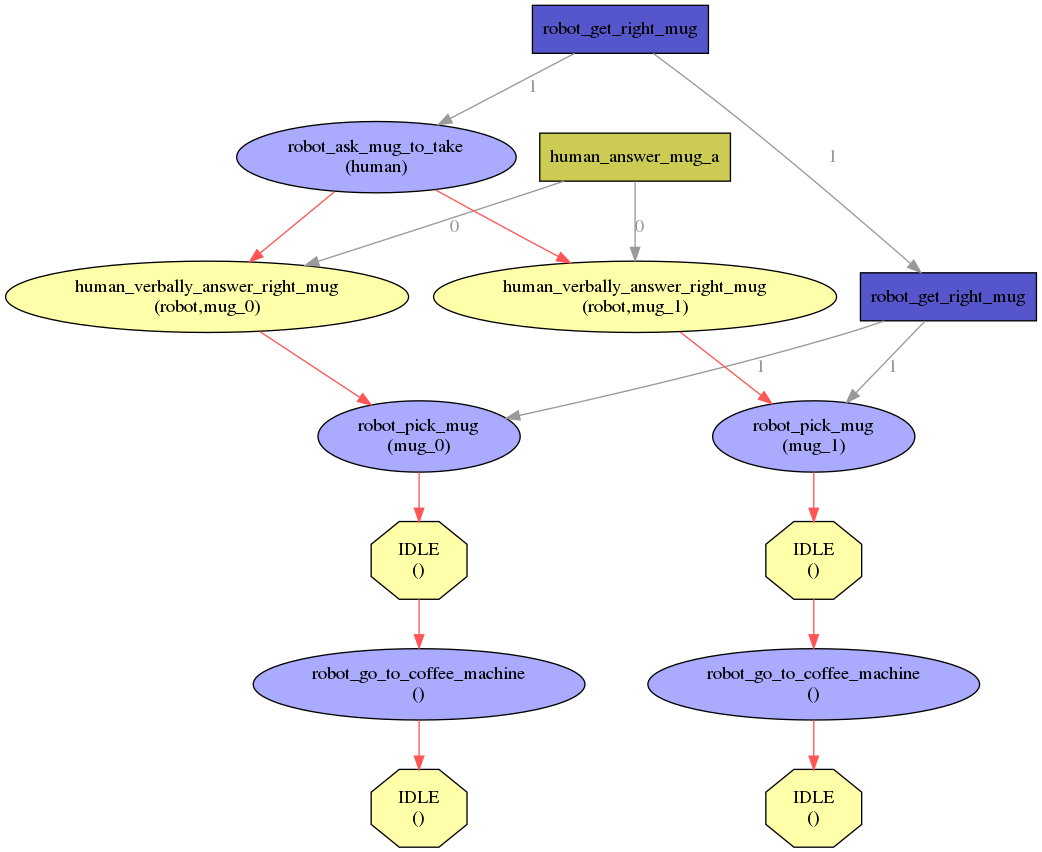
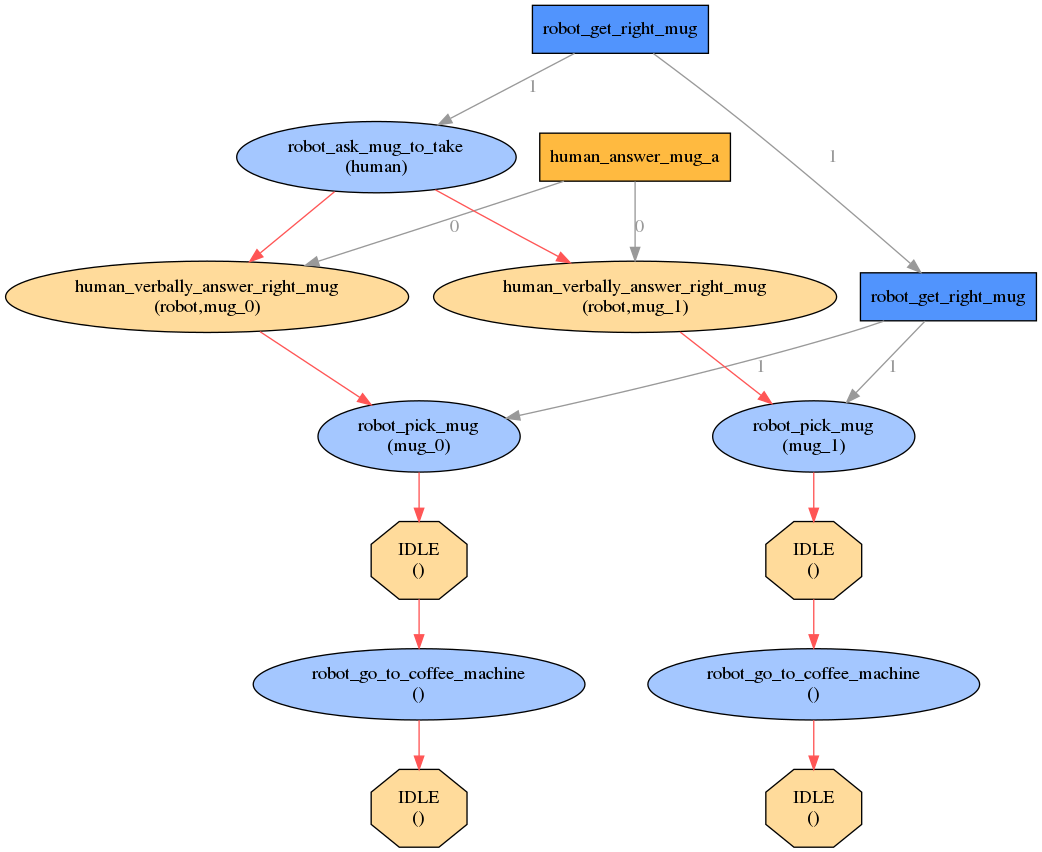
[Chapter4] New plan colors

diff --git a/Chapter4.tex b/Chapter4.tex
@@ -378,9 +378,9 @@ def pick_mug(self_agent, other_agent, mug):
 \subsection{Drawing the Plans}
 Thinking about the robot programmer is almost as important as considering the human partner the robot will interact with. Thus, in order to debug the designed \acrshortpl{htn}, we provide a way of visualizing the valid plans tree and the generated conditional plan. 
 
-An example of visualization of valid plans tree (before selecting a conditional plan) is presented in Figure~\ref{fig:chap4mugsss}. The ellipses correspond to primitive tasks while rectangles represent abstract ones. The octagons represent the default actions (\textit{IDLE} and \textit{WAIT}). The blue shapes are robot tasks and the yellow ones are the human ones. Finally, red arrows indicate the sequence of actions in the plans and gray ones represent hierarchical links, \textit{i.e.}~the links between the tasks as defined in the \acrshortpl{htn}, along with the decomposition numbers next to them.
+An example of visualization of valid plans tree (before selecting a conditional plan) is presented in Figure~\ref{fig:chap4mugsss}. The ellipses correspond to primitive tasks while rectangles represent abstract ones. The octagons represent the default actions (\textit{IDLE} and \textit{WAIT}). The blue shapes are robot tasks and the orange ones are the human ones. Finally, red arrows indicate the sequence of actions in the plans and gray ones represent hierarchical links, \textit{i.e.}~the links between the tasks as defined in the \acrshortpl{htn}, along with the decomposition numbers next to them.
 
-It is interesting to note that in Figure~\ref{fig:chap4mugsss} some human actions are followed by two potential robot actions (yellow shapes of which originate red arrows leading to several blues shapes). Indeed, these actions are feasible by the robot, but no plan has been selected yet. Whereas in Figure~\ref{fig:chap4mugtrialerror}, representing a conditional plan selected from the previous figure, the robot actions are set, and the non determinism is only on the human actions.
+It is interesting to note that in Figure~\ref{fig:chap4mugsss} some human actions are followed by two potential robot actions (orange shapes of which originate red arrows leading to several blues shapes). Indeed, these actions are feasible by the robot, but no plan has been selected yet. Whereas in Figure~\ref{fig:chap4mugtrialerror}, representing a conditional plan selected from the previous figure, the robot actions are set, and the non determinism is only on the human actions.
 
 \section{Examples}
 In this section, we will present some case studies in which are presented small task examples. Each example will present some features of the planner and comparisons between multiple plans depending on some initial conditions (beliefs or action costs). Besides, they will give insights into the rationale used when creating the domains for both the robot and the human. The Python domains for both examples are available in Annex~\ref{annex:codedomains}.
